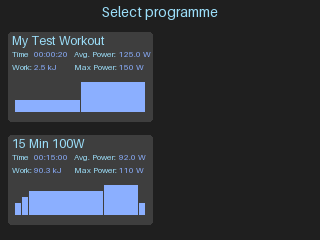
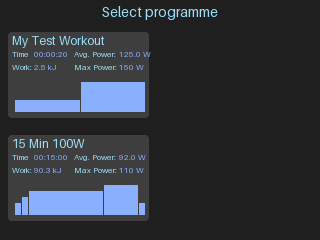
added touchActiveRegions return tuple

Changed region(s): [[0.0, 0.5542, 0.5, 0.9625], [0.0312, 0.1458, 0.5, 0.525]]

diff --git a/screen.py b/screen.py
@@ -62,7 +62,6 @@ class ScreenManager:
         #self.display.begin()
         #self.display.clear(self.COLOUR_BG)    # Clear to background
 
-        #self.chartsData = [list([0]), list([0]), list([0]), list([0])]
         self.im = Image.new('RGB', (self.WIDTH, self.HEIGHT), self.COLOUR_BG)
 
     def assignDataContainer (self, container: DataContainer):
@@ -78,7 +77,7 @@ class ScreenManager:
         if pageID == "UserSelect":
             pass
         if pageID == "Programmes":
-            pass
+            self.drawProgrammeSelector
         if pageID == "WorkoutStart":
            self.drawProgrammeSelector()
 
@@ -90,7 +89,7 @@ class ScreenManager:
 
         self.display.display()
 
-    def drawProgrammeSelector(self, listOfParametres: list):
+    def drawProgrammeSelector(self, listOfParametres: list) -> tuple:
         #self.display.clear(self.COLOUR_BG)
         #draw = self.display.draw() # Get a PIL Draw object
         draw = ImageDraw.Draw(self.im)
@@ -107,6 +106,8 @@ class ScreenManager:
         chartWidth = box_width_height[0]-10
         chartHeight = 30
 
+        touchActiveRegions = tuple()
+
         for i in range(2):
             
             Y_offset = Y_offset_start
@@ -120,15 +121,16 @@ class ScreenManager:
                 
                 X_offset = X_offset_start
 
-                box_left_top = (self.X_POS_START + X_offset, self.Y_POS_START + Y_offset)
-                draw.rounded_rectangle(xy = (box_left_top[0] - 4, box_left_top[1] - 4, 
-                                            box_left_top[0] + box_width_height[0], box_left_top[1] + box_width_height[1]),
+                box_xy = (self.X_POS_START + X_offset - 4, self.Y_POS_START + Y_offset - 4)
+                box_xy += (box_xy[0] + box_width_height[0], box_xy[1] + box_width_height[1])
+
+                draw.rounded_rectangle(xy = (box_xy[0], box_xy[1], box_xy[2], box_xy[3]),
                                         radius = 3,
                                         fill = self.COLOUR_BG_LIGHT,
                                         outline = self.COLOUR_BG_LIGHT,
                                         width = 1)
 
-
+                touchActiveRegions += ((box_xy, progID),)
 
                 font = ImageFont.load_default(12)
                 draw.text(xy = (self.X_POS_START + X_offset, self.Y_POS_START+Y_offset), 
@@ -198,22 +200,24 @@ class ScreenManager:
                 
                 #### chart
                 Y_offset += 15
-                chartImage = self.drawSegmentsChart(chartWidth=chartWidth,
+                chartImage, chartActiveRegions = self.drawSegmentsChart(chartWidth=chartWidth,
                                                     chartHeight=chartHeight,
                                                     workoutParams=thisWorkoutParams,
                                                     bgColour=self.COLOUR_BG_LIGHT,
                                                     segmentsColour=self.COLOUR_FILL)
                 
-                self.im.paste(chartImage, (box_left_top[0]+3, self.Y_POS_START+Y_offset))
+                self.im.paste(chartImage, (box_xy[0]+7, self.Y_POS_START+Y_offset))
 
                 Y_offset = Y_offset_start + box_width_height[1]+18
 
             X_offset_start += self.WIDTH / 2
 
-
         self.im.save("selector.png")
+        return touchActiveRegions
     
-    def drawSegmentsChart(self, chartWidth, chartHeight, workoutParams: WorkoutParameters, bgColour, segmentsColour, selectionColour = None, selectedSegment = None) -> Image:
+
+    
+    def drawSegmentsChart(self, chartWidth: int, chartHeight: int, workoutParams: WorkoutParameters, bgColour: tuple, segmentsColour: tuple, selectionColour = None, selectedSegment = None) -> tuple:
         image = Image.new('RGB', (chartWidth, chartHeight), bgColour)
         draw = ImageDraw.Draw(image)
 
@@ -231,6 +235,8 @@ class ScreenManager:
 
         chartXPos = 0
 
+        touchActiveRegions = tuple()
+
         for counter, segment in enumerate(workoutParams.segmentsChartData):
 
             if selectedSegment == counter and selectionColour is not None:
@@ -241,26 +247,27 @@ class ScreenManager:
             segment_wh = (int(segment[2] / segment_width_normalisation_factor) + 1,
                          (int(segment[1] / segment_height_normalisation_factor) +1 - barHeightAdjustment) * barHeightScaler)
             
-            draw.rectangle(xy=(chartXPos, chartHeight-segment_wh[1], 
-                                chartXPos + segment_wh[0], chartHeight),
-                                fill=colour)
+            segment_xy = (chartXPos, chartHeight-segment_wh[1], chartXPos + segment_wh[0], chartHeight)
+            
+            draw.rectangle(xy=segment_xy, fill=colour)
+            touchActiveRegions += ((segment_xy, counter),)
 
             chartXPos += segment_wh[0]+2
 
-        return image
+        return (image, touchActiveRegions)
 
 
 
-    def drawPageWorkout(self, workoutType:str, workoutState: str):
+    def drawPageWorkout(self, workoutType:str, workoutState: str) -> tuple:
         #self.display.clear(self.COLOUR_BG)
         #draw = self.display.draw() # Get a PIL Draw object
         draw = ImageDraw.Draw(self.im)
-        
+        touchActiveRegions = tuple()
 
         X_POS_END: int = 180
         LINE_THICKNESS: int = 2
         Y_POS_SECTIONS = self.HEIGHT / 4    # Sections begin at 1/4 height, i.e. 240 / 4 = 60
-        
+
         noBoxes = 3
         box_width = (self.WIDTH - self.X_POS_START * (noBoxes+1))/noBoxes
         box_height = 45
@@ -285,15 +292,18 @@ class ScreenManager:
             if i == 1:  # central box, 
                 
                 start_stop_button_dims = (65, 20)
-                start_stop_button_xy = (((self.WIDTH - start_stop_button_dims[0]) / 2, (Y_POS_SECTIONS - start_stop_button_dims[1]) / 2 + 8),
-                                        ((self.WIDTH + start_stop_button_dims[0]) / 2, (Y_POS_SECTIONS + start_stop_button_dims[1]) / 2 + 8)
-                                        )
+                start_stop_button_xy = ((self.WIDTH - start_stop_button_dims[0]) / 2, (Y_POS_SECTIONS - start_stop_button_dims[1]) / 2 + 8,
+                                        (self.WIDTH + start_stop_button_dims[0]) / 2, (Y_POS_SECTIONS + start_stop_button_dims[1]) / 2 + 8)
+                                        
                
                 draw.rounded_rectangle(xy = start_stop_button_xy,
                                 radius = 3,
                                 fill = self.COLOUR_BUTTON,
                                 outline = self.COLOUR_BUTTON,
                                 width = 2)
+                
+                touchActiveRegions += ((start_stop_button_xy, "button"),)
+
 
                 if workoutState == "FREERIDE" or workoutState == "PROGRAM":
                     button_label = "Pause / End"
@@ -390,12 +400,14 @@ class ScreenManager:
             
             Y_Pos += section_height
         self.im.save("workout.png")
+        return touchActiveRegions
             
 
-    def drawPageMainMenu(self):
+    def drawPageMainMenu(self) -> tuple:
         #self.display.clear()
         #draw = self.display.draw() # Get a PIL Draw object
         draw = ImageDraw.Draw(self.im)
+        touchActiveRegions = tuple()
 
         noBoxes = (3, 2)    # in x and y
         box_width  = (self.WIDTH - self.X_POS_START * (noBoxes[0]+1))/noBoxes[0]
@@ -415,6 +427,8 @@ class ScreenManager:
                                     outline = self.COLOUR_OUTLINE,
                                     width = 3)
                 
+                touchActiveRegions += ((box_xy, box_Labels[i][j]),)
+                
                 font = ImageFont.load_default(12)
                 box_centre_xy = (box_xy[0][0] + box_width / 2, box_xy[0][1] + box_height / 2)
                 draw.text(xy = box_centre_xy, 
@@ -425,6 +439,7 @@ class ScreenManager:
                     anchor="mm")
                 
         self.im.save("mainMenu.png")
+        return touchActiveRegions
 
 data = DataContainer()
 data.currentSegment = WorkoutSegment("power", 24, 110)
